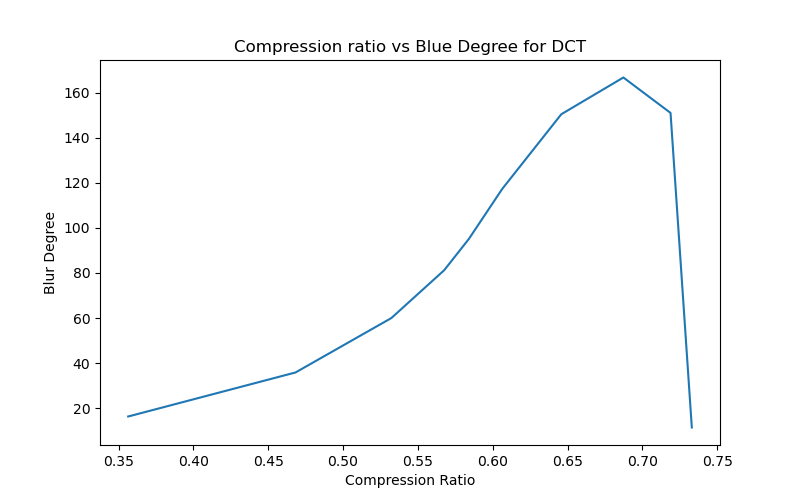
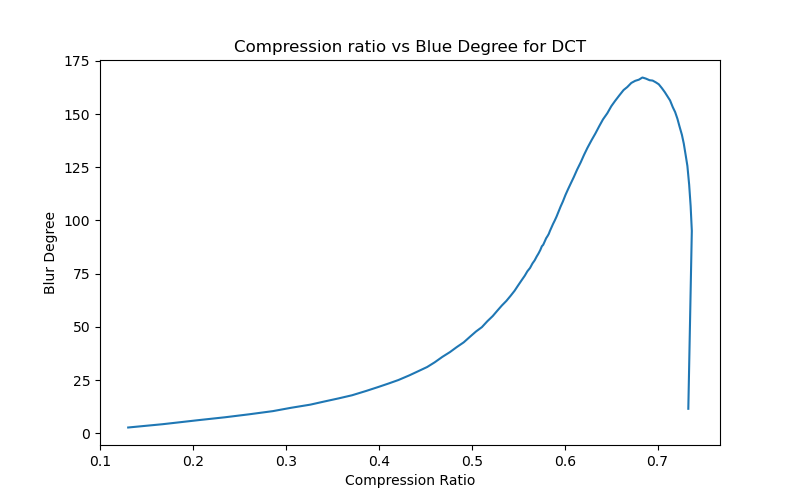
update rgb

diff --git a/dct_rgb.py b/dct_rgb.py
@@ -64,7 +64,7 @@ def dct_compress(image_path, output_path, compression):
     # Set compression factor (adjust as needed) -> goes from 0 - 1, with 1 being full loss
     # Compress the image
     compressed_image = compress_image(original_image, compression, image_type)
-    cv2.imwrite(os.path.join(output_path , 'rgb_output_' + str(compression) + image_type), compressed_image)
+    cv2.imwrite(os.path.join(output_path , 'new_rgb_output_' + str(compression) + image_type), compressed_image)
 
     return output_path + '/output_' + str(compression) + image_type
 
@@ -115,4 +115,4 @@ def folder_dct(src_folder,granularity):
 
     fig1.savefig('./output_graphs/dct/compression_ratio_vs_blur_degree_rgb.png')
 
-folder_dct('./src_images',10)
+folder_dct('./src_images', 100)
